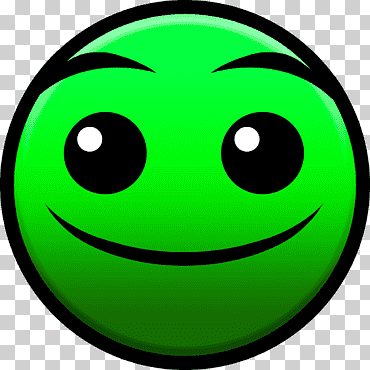
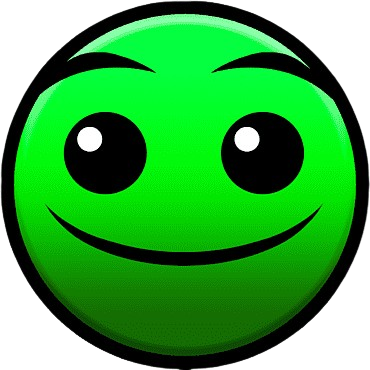
design fixes

diff --git a/client/src/components/ExperienceQuerySearchInput.js b/client/src/components/ExperienceQuerySearchInput.js
@@ -14,7 +14,8 @@ export const ExperienceQuerySearchInput = ({ value, handleSearch }) => {
         // check if there was a previous value
         // if there was, set query to it
         if (value) {
-            setQuery(value)
+            console.log('value: ', value)
+            setQuery(value.companyName)
         }
     }, [value])
 
@@ -45,7 +46,7 @@ export const ExperienceQuerySearchInput = ({ value, handleSearch }) => {
 
     const handleCompanyButtonClick = async (company) => {
         // reset text input
-        setQuery(company.name)
+        setQuery(company.displayName)
         setResults([])
 
         await handleSearch(company)
@@ -67,18 +68,18 @@ export const ExperienceQuerySearchInput = ({ value, handleSearch }) => {
                     placeholder="i.e. Google"
                 />
                 <div
-                    className={`z-30 max-h-44 w-full translate-y-1 overflow-y-scroll bg-gray-800 shadow-md ${hasResults ? 'absolute top-full' : ''}`}
+                    className={`z-30 max-h-44 w-full translate-y-1 overflow-y-scroll bg-slate-200 text-gray-800 shadow-md ${hasResults ? 'absolute top-full' : ''}`}
                 >
                     {hasResults &&
                         results.map((company) => (
                             <div
                                 key={`${company.name}_result`}
-                                className="flex flex-row items-center justify-center px-5 py-2 hover:bg-gray-100"
+                                className="flex flex-row items-center justify-center px-5 py-2 transition-all duration-500 hover:bg-pipeline-blue-200 hover:text-white"
                             >
                                 <img
                                     className="h-10 w-10 rounded-lg object-contain"
                                     src={`${company.logo}`}
-                                    alt={`logo_${company.name}`}
+                                    alt={`logo_${company.displayName}`}
                                 />
                                 <button
                                     key={company.id} // Add a unique key for each button
@@ -87,7 +88,7 @@ export const ExperienceQuerySearchInput = ({ value, handleSearch }) => {
                                         handleCompanyButtonClick(company)
                                     }
                                 >
-                                    <h1>{company.name}</h1>
+                                    <h1>{company.displayName}</h1>
                                 </button>
                             </div>
                         ))}

diff --git a/client/src/components/ExperienceForm.js b/client/src/components/ExperienceForm.js
@@ -2,11 +2,11 @@ import { useState } from 'react'
 import { ExperienceQuerySearchInput } from './ExperienceQuerySearchInput'
 import { TitleQuerySearchInput } from './TitleQuerySearchInput'
 import { X } from 'lucide-react'
-import BigSmiley from '../static/ratings/BigSmiley.jpg'
+import BigSmiley from '../static/ratings/BigSmiley.png'
 import smiley from '../static/ratings/smiley.png'
 import neutral from '../static/ratings/neutral.png'
 import frown from '../static/ratings/frown.png'
-import demon from '../static/ratings/demon.jpeg'
+import demon from '../static/ratings/demon.png'
 import useValidateExperience from '../hooks/useValidateExperience'
 
 export const ExperienceForm = ({
@@ -264,7 +264,7 @@ export const ExperienceForm = ({
                         Company
                     </label>
                     <ExperienceQuerySearchInput
-                        value={company}
+                        value={experience}
                         handleSearch={handleCompanyChange}
                     />
                 </div>

diff --git a/client/src/pages/EditProfile.js b/client/src/pages/EditProfile.js
@@ -575,7 +575,8 @@ function EditProfile() {
         }
 
         // check none of the singular fields are blank
-        if (firstName === '' || lastName === '') return false
+        if (!firstName || firstName === '' || !lastName || lastName === '')
+            return false
 
         // check the education isnt blank
         if (school === '') return false
